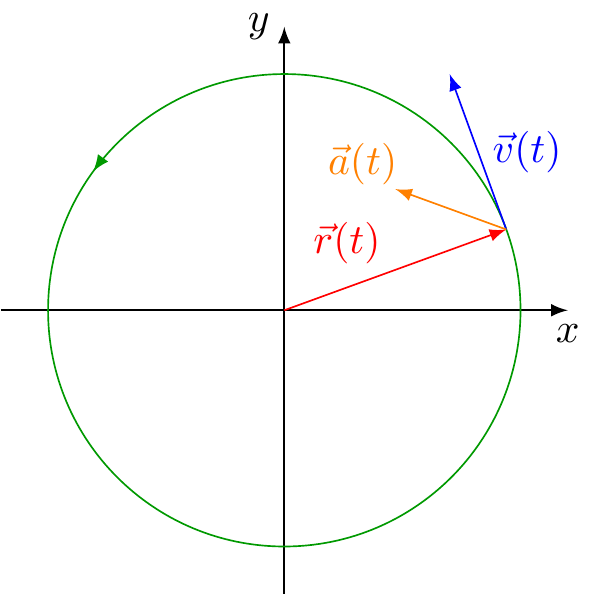
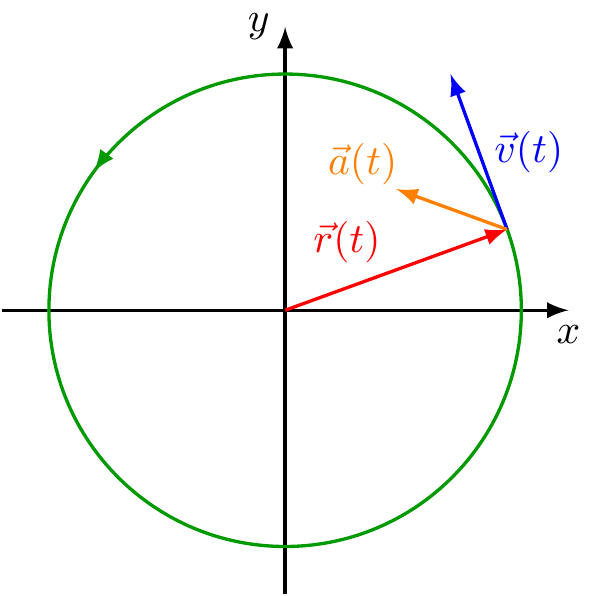
make arrows thick

diff --git a/mechanics/circular-motion-uniform/circular-motion-uniform.tex b/mechanics/circular-motion-uniform/circular-motion-uniform.tex
@@ -9,19 +9,20 @@
 \begin{document}
 \begin{tikzpicture}[scale=2]
   % axes
-  \draw[->] (-1.2,0) -- (1.2,0) node[below] {$x$};
-  \draw[->] (0,-1.2) -- (0,1.2) node[left] {$y$};
+  \draw[->,thick] (-1.2,0) -- (1.2,0) node[below] {$x$};
+  \draw[->,thick] (0,-1.2) -- (0,1.2) node[left] {$y$};
   % circle
   \draw[
     decoration={markings, mark=at position 0.4 with {\arrow{>}}},
     postaction={decorate},
-    black!40!green
+    black!40!green,
+    thick
   ] (0,0) circle (1);
   % place, velocity, acceleration
-  \draw[->,red] (0,0) -- node[left,anchor=south east,yshift=-0.2em]{$\place(t)$} (20:1);
-  \draw[->,blue] (20:1) -- node[right,anchor=west]{$\velocity(t)$} +(20+90:0.7);
+  \draw[->,thick,red] (0,0) -- node[left,anchor=south east,yshift=-0.2em]{$\place(t)$} (20:1);
+  \draw[->,thick,blue] (20:1) -- node[right,anchor=west]{$\velocity(t)$} +(20+90:0.7);
   \begin{scope}[shift={(-0.03,0.03)}]
-    \draw[->,orange] (20:1) -- node[left, anchor=south east] {$\acceleration(t)$} (20:0.8);
+    \draw[->,thick,orange] (20:1) -- node[left, anchor=south east] {$\acceleration(t)$} (20:0.8);
   \end{scope}
 \end{tikzpicture}
 \end{document}

diff --git a/mechanics/circular-motion-non-uniform/circular-motion-non-uniform.tex b/mechanics/circular-motion-non-uniform/circular-motion-non-uniform.tex
@@ -9,17 +9,18 @@
 \begin{document}
 \begin{tikzpicture}[scale=2]
   % axes
-  \draw[->] (-1.2,0) -- (1.2,0) node[below] {$x$};
-  \draw[->] (0,-1.2) -- (0,1.2) node[left] {$y$};
+  \draw[->,thick] (-1.2,0) -- (1.2,0) node[below] {$x$};
+  \draw[->,thick] (0,-1.2) -- (0,1.2) node[left] {$y$};
   % circle
   \draw[
     decoration={markings, mark=at position 0.4 with {\arrow{>}}},
     postaction={decorate},
-    black!40!green
+    black!40!green,
+    thick
   ] (0,0) circle (1);
   % place, velocity, acceleration
-  \draw[->,red] (0,0) -- node[left,anchor=south east,yshift=-0.2em]{$\place(t)$} (20:1);
-  \draw[->,blue] (20:1) -- node[right,anchor=west]{$\velocity(t)$} +(20+90:0.7);
-  \draw[->,orange] (20:1) -- ++(160:0.5) node[left,xshift=0.4em,yshift=0.6em] {$\acceleration(t)$};
+  \draw[->,thick,red] (0,0) -- node[left,anchor=south east,yshift=-0.2em]{$\place(t)$} (20:1);
+  \draw[->,thick,blue] (20:1) -- node[right,anchor=west]{$\velocity(t)$} +(20+90:0.7);
+  \draw[->,thick,orange] (20:1) -- ++(160:0.5) node[left,xshift=0.4em,yshift=0.6em] {$\acceleration(t)$};
 \end{tikzpicture}
 \end{document}

diff --git a/mechanics.md b/mechanics.md
@@ -13,18 +13,19 @@
 \begin{document}
 \begin{tikzpicture}[scale=2]
   % axes
-  \draw[->] (-1.2,0) -- (1.2,0) node[below] {$x$};
-  \draw[->] (0,-1.2) -- (0,1.2) node[left] {$y$};
+  \draw[->,thick] (-1.2,0) -- (1.2,0) node[below] {$x$};
+  \draw[->,thick] (0,-1.2) -- (0,1.2) node[left] {$y$};
   % circle
   \draw[
     decoration={markings, mark=at position 0.4 with {\arrow{>}}},
     postaction={decorate},
-    black!40!green
+    black!40!green,
+    thick
   ] (0,0) circle (1);
   % place, velocity, acceleration
-  \draw[->,red] (0,0) -- node[left,anchor=south east,yshift=-0.2em]{$\place(t)$} (20:1);
-  \draw[->,blue] (20:1) -- node[right,anchor=west]{$\velocity(t)$} +(20+90:0.7);
-  \draw[->,orange] (20:1) -- ++(160:0.5) node[left,xshift=0.4em,yshift=0.6em] {$\acceleration(t)$};
+  \draw[->,thick,red] (0,0) -- node[left,anchor=south east,yshift=-0.2em]{$\place(t)$} (20:1);
+  \draw[->,thick,blue] (20:1) -- node[right,anchor=west]{$\velocity(t)$} +(20+90:0.7);
+  \draw[->,thick,orange] (20:1) -- ++(160:0.5) node[left,xshift=0.4em,yshift=0.6em] {$\acceleration(t)$};
 \end{tikzpicture}
 \end{document}
 ~~~
@@ -42,19 +43,20 @@
 \begin{document}
 \begin{tikzpicture}[scale=2]
   % axes
-  \draw[->] (-1.2,0) -- (1.2,0) node[below] {$x$};
-  \draw[->] (0,-1.2) -- (0,1.2) node[left] {$y$};
+  \draw[->,thick] (-1.2,0) -- (1.2,0) node[below] {$x$};
+  \draw[->,thick] (0,-1.2) -- (0,1.2) node[left] {$y$};
   % circle
   \draw[
     decoration={markings, mark=at position 0.4 with {\arrow{>}}},
     postaction={decorate},
-    black!40!green
+    black!40!green,
+    thick
   ] (0,0) circle (1);
   % place, velocity, acceleration
-  \draw[->,red] (0,0) -- node[left,anchor=south east,yshift=-0.2em]{$\place(t)$} (20:1);
-  \draw[->,blue] (20:1) -- node[right,anchor=west]{$\velocity(t)$} +(20+90:0.7);
+  \draw[->,thick,red] (0,0) -- node[left,anchor=south east,yshift=-0.2em]{$\place(t)$} (20:1);
+  \draw[->,thick,blue] (20:1) -- node[right,anchor=west]{$\velocity(t)$} +(20+90:0.7);
   \begin{scope}[shift={(-0.03,0.03)}]
-    \draw[->,orange] (20:1) -- node[left, anchor=south east] {$\acceleration(t)$} (20:0.8);
+    \draw[->,thick,orange] (20:1) -- node[left, anchor=south east] {$\acceleration(t)$} (20:0.8);
   \end{scope}
 \end{tikzpicture}
 \end{document}
